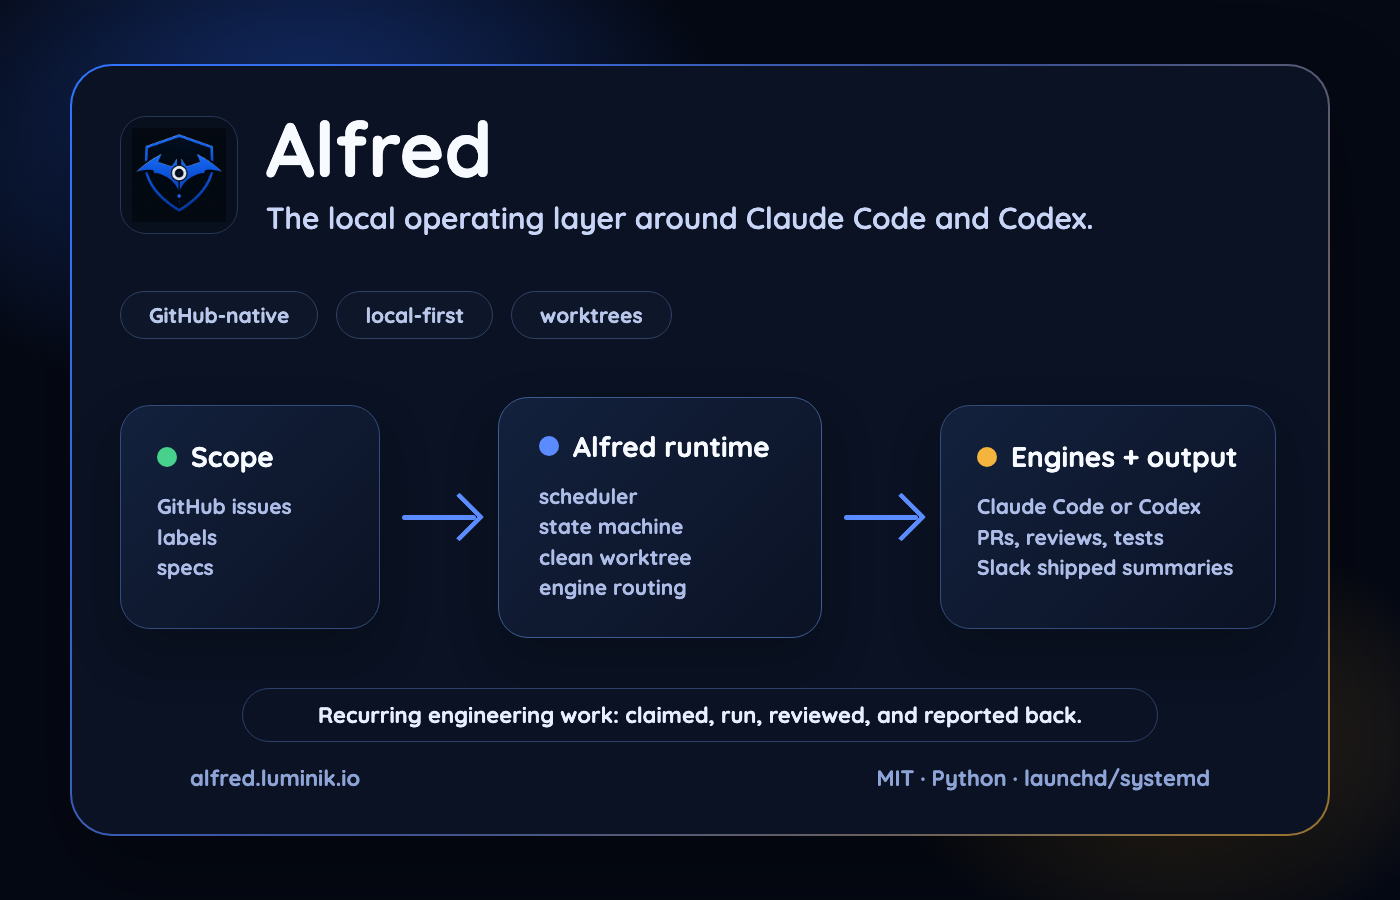
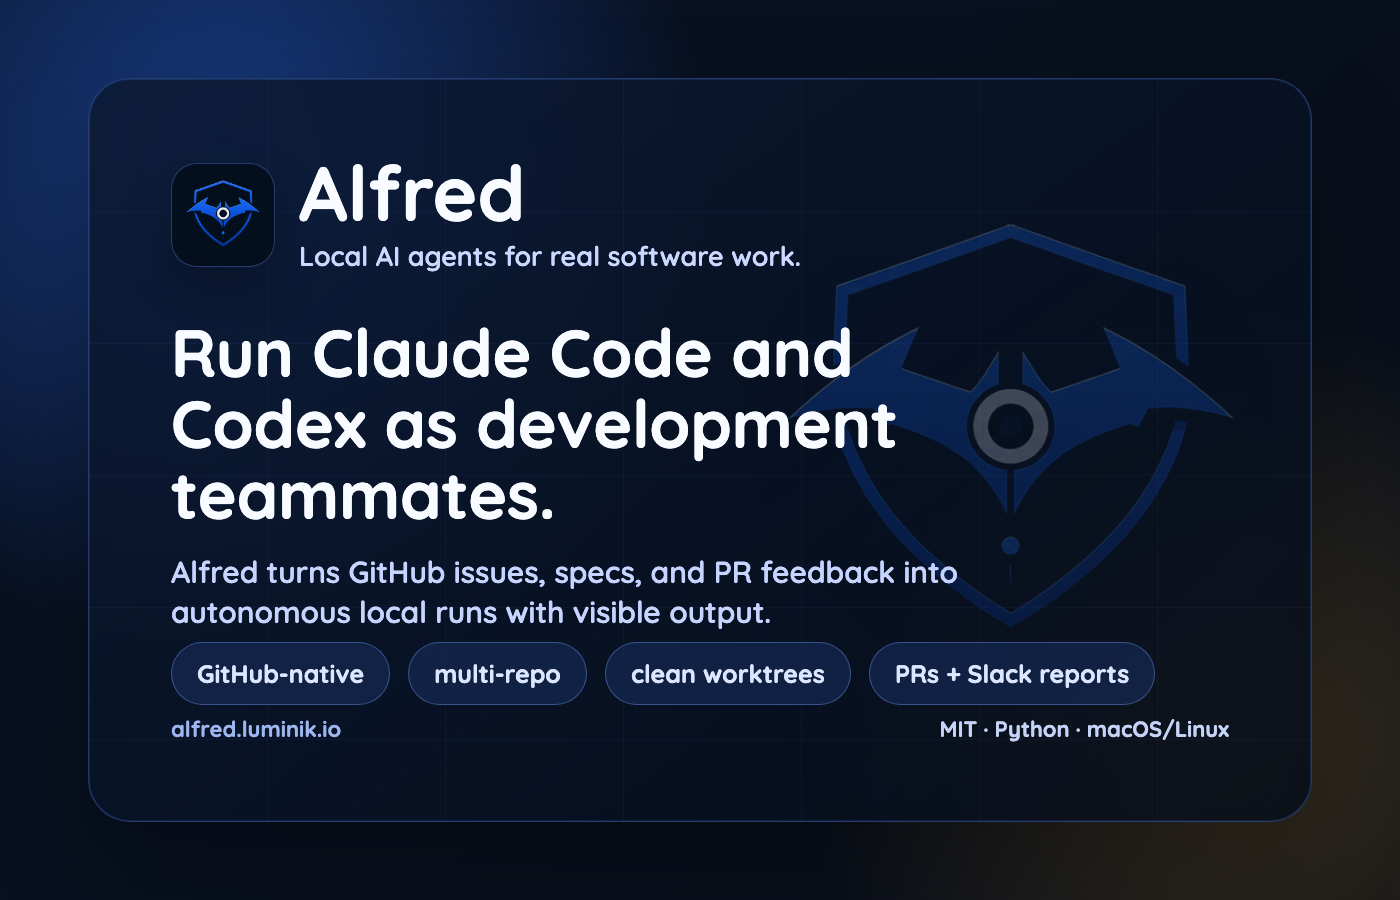
Refine Alfred directory profile

diff --git a/src/data/orchestrators.ts b/src/data/orchestrators.ts
@@ -422,8 +422,8 @@ const openHumanScreenshots = [
 const alfredScreenshots = [
   {
     src: "/images/players/alfred/alfred-platform-context.png",
-    alt: "Alfred local agent fleet workflow diagram",
-    caption: "Alfred workflow summary based on the public docs.",
+    alt: "Alfred local development agent positioning card",
+    caption: "Alfred positioning summary based on the public docs.",
     sourceName: "Alfred docs",
     sourceUrl: "https://alfred.luminik.io/"
   }
@@ -495,15 +495,15 @@ export const orchestrators: OrchestratorEntry[] = [
       surface: "dark"
     },
     summary:
-      "Local runtime for autonomous repo teammates on Claude Code and Codex.",
+      "Local runtime for autonomous development teammates on Claude Code and Codex.",
     note:
       "Turns GitHub issues, specs, and PR feedback into bounded local runs with issue claiming, label state, isolated git worktrees, PRs, reviews, tests, Slack reports, and per-agent engine routing.",
     overview: [
-      "Alfred is an MIT-licensed Python runtime for running autonomous engineering agents around existing Claude Code and Codex subscriptions.",
-      "It belongs in Open Orchestrators because it treats recurring software work as orchestrated repo jobs: GitHub issues and specs define scope, agents claim work with labels, each run executes in an isolated worktree, and results return as PRs, review notes, targeted tests, deploy checks, or shipped summaries."
+      "Alfred is an MIT-licensed Python runtime for running autonomous development agents around existing Claude Code and Codex subscriptions.",
+      "It belongs in Open Orchestrators because it coordinates recurring engineering work end to end: GitHub issues and specs define scope, agents claim work with labels, each run executes in an isolated worktree, and results return as PRs, review notes, targeted tests, deploy checks, or shipped summaries."
     ],
-    bestFor: ["Local coding-agent fleets", "GitHub issue to PR loops", "Claude Code and Codex routing"],
-    tags: ["coding agents", "worktrees", "GitHub issues", "Slack reports", "engine routing", "MIT"],
+    bestFor: ["Autonomous development agents", "Multi-repo issue to PR loops", "Claude Code and Codex routing"],
+    tags: ["development agents", "multi-repo", "worktrees", "GitHub issues", "Slack reports", "engine routing", "MIT"],
     links: [
       {
         label: "Docs",